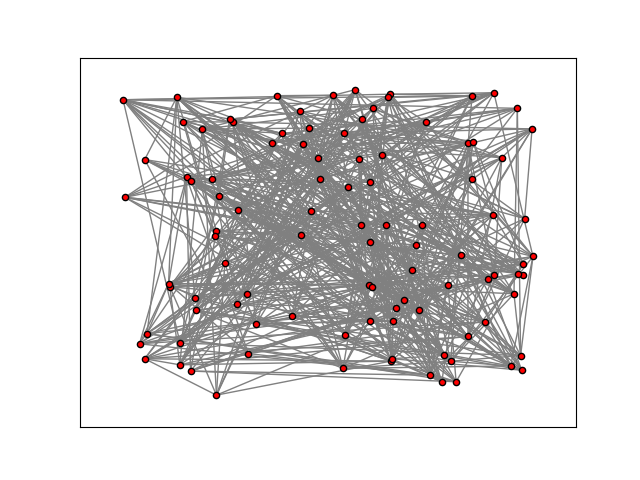
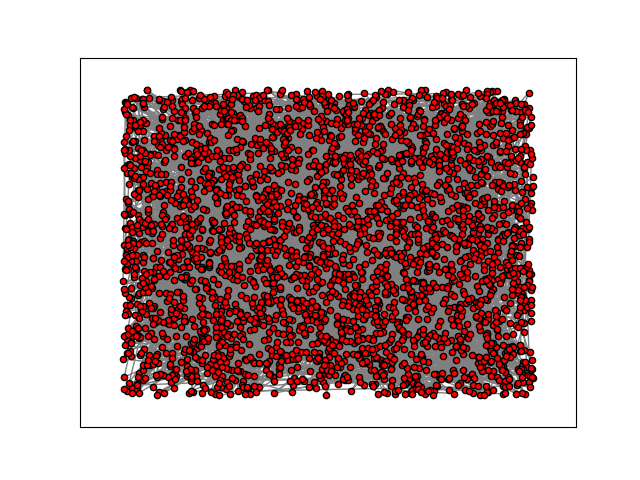
im rishi

diff --git a/cellular_automata/partitioning.py b/cellular_automata/partitioning.py
@@ -25,7 +25,8 @@ import click
 import matplotlib
 from dimod import Binary, ConstrainedQuadraticModel, quicksum
 from dwave.system import LeapHybridCQMSampler
-from simulator import MAP_HEIGHT, MAP_WIDTH, main, createNewForest
+import simulator
+from simulator import MAP_HEIGHT, MAP_WIDTH, createNewForest
 
 try:
     import matplotlib.pyplot as plt
@@ -286,8 +287,8 @@ def visualize_results(G, partitions, soln):
 def main(graph, nodes, degree, prob, p_in, p_out, new_edges, k_partition):
     rishicodefunky = createNewForest()
     rishisigma = list(itertools.islice({(i, j) for i in range(MAP_WIDTH) for j in range(MAP_HEIGHT)}, 120))
-    #G = main(60, rishicodefunky, rishisigma, rishicodefunky[0])[1]
-    G = build_graph(graph, nodes, degree, prob, p_in, p_out, new_edges, k_partition)
+    G = simulator.main(60, rishicodefunky, rishisigma, rishicodefunky[0])[1]
+    #G = build_graph(graph, nodes, degree, prob, p_in, p_out, new_edges, k_partition)
 
     visualize_input_graph(G)
 
@@ -295,7 +296,7 @@ def main(graph, nodes, degree, prob, p_in, p_out, new_edges, k_partition):
 
     # Initialize the CQM solver
     print("\nOptimizing on LeapHybridCQMSampler...")
-    sampler = LeapHybridCQMSampler()
+    sampler = LeapHybridCQMSampler(token='DEV-b80ff71a0ffa044bc0ca11d800f92727a84eaa8a')
     
     sample = run_cqm_and_collect_solutions(cqm, sampler)
     
